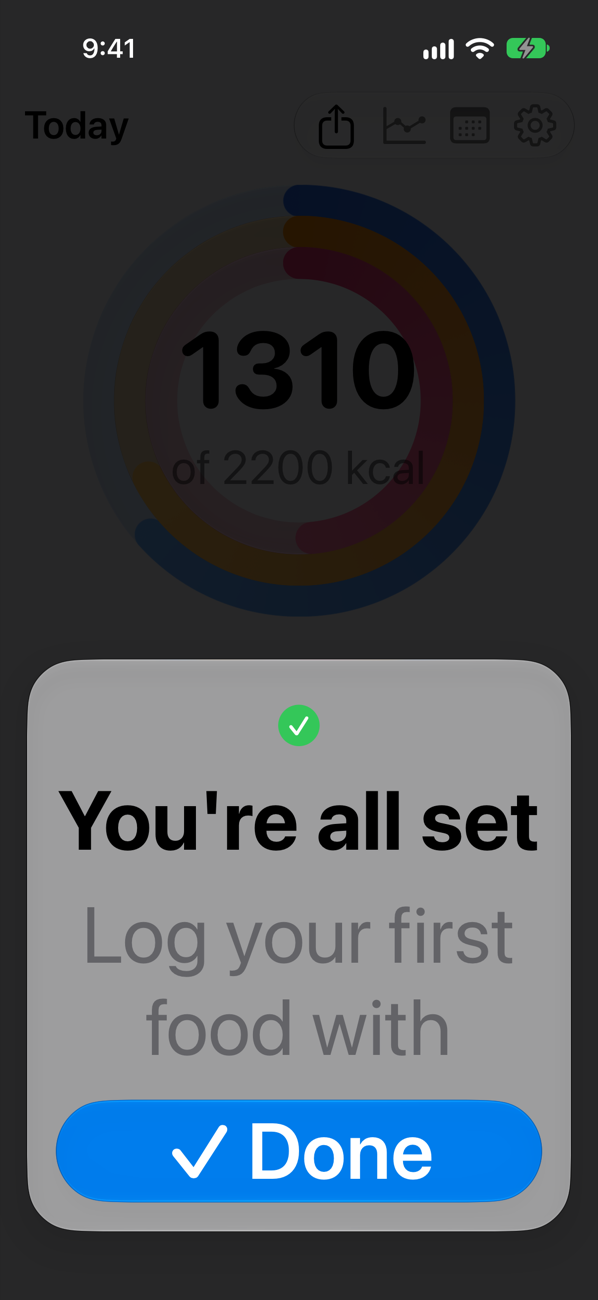
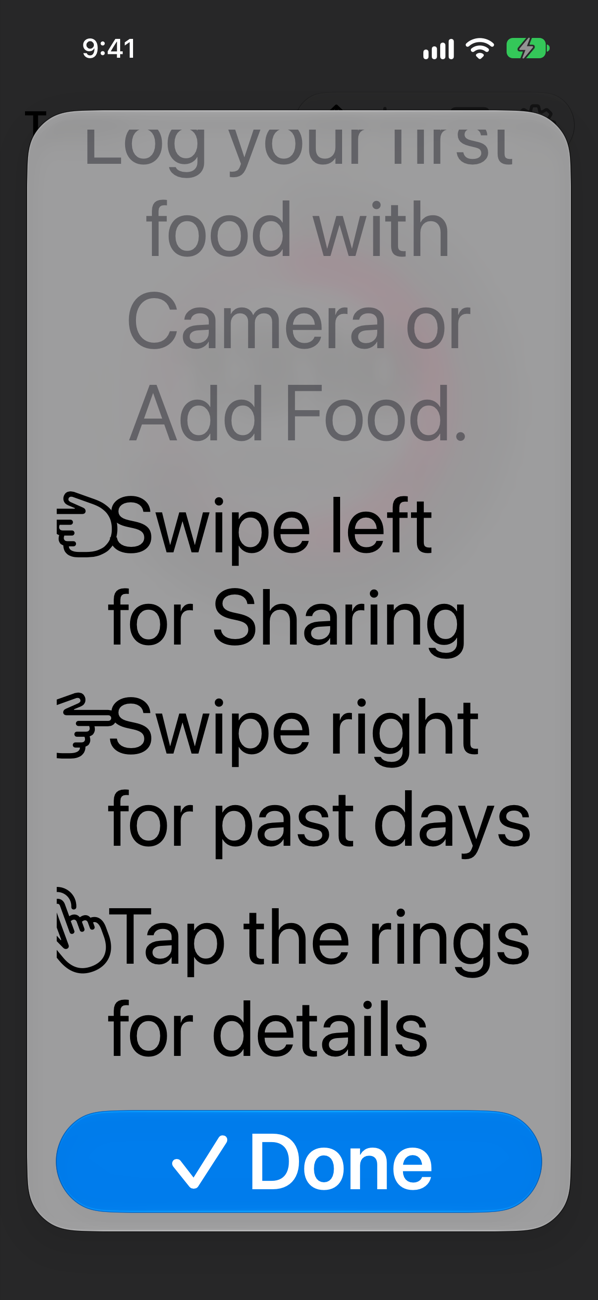
docs: refresh tutorial accessibility finish captures

diff --git a/tutorial-r7/README.md b/tutorial-r7/README.md
@@ -2,11 +2,12 @@
 
 This requested screenshot transfer set covers the complete light tutorial,
 dark-mode opening and finish, accessibility-size opening, Protein step and
-finish, plus a composite strip of the finish transition. It contains 15 PNGs
-totalling about 2.8 MB. This is an intentional exception to the repository's
-usual five-image / 2 MiB evidence limit: all requested states and the
-transition strip are included. The 101 MB simulator recording and raw XCTest
-result bundles remain in ignored local evidence and are not tracked here.
+finish at two accessibility sizes, plus a composite strip of the finish
+transition. It contains 16 PNGs totalling about 3.1 MB. This is an intentional
+exception to the repository's usual five-image / 2 MiB evidence limit: all
+requested states and the transition strip are included. The 101 MB simulator
+recording and raw XCTest result bundles remain in ignored local evidence and
+are not tracked here.
 
 ## Captures
 
@@ -25,18 +26,24 @@ result bundles remain in ignored local evidence and are not tracked here.
 | [11-finish-dark.png](11-finish-dark.png) | Dark: finish recap |
 | [12-sharing-accessibility.png](12-sharing-accessibility.png) | Accessibility text size: sharing |
 | [13-protein-accessibility.png](13-protein-accessibility.png) | Accessibility text size: Protein |
-| [14-finish-accessibility.png](14-finish-accessibility.png) | Accessibility text size: finish recap |
+| [14-finish-accessibility.png](14-finish-accessibility.png) | AX5 finish recap: scrolled to show all recap rows above pinned Done |
 | [15-finish-transition-strip.png](15-finish-transition-strip.png) | Ten sampled frames through the finish morph |
+| [16-finish-ax1.png](16-finish-ax1.png) | AX1 finish recap: all content fits above pinned Done |
 
 ## Provenance
 
 - Integration source: `e2f75742` (final Reduce Motion glass morph gating).
+- Accessibility fix: feature commit `8d27cc46`, merged as `001cc1de`.
 - Simulator: iPhone 17, iOS 27.0, UDID `918D29B9-97D3-42C0-9C47-00605E01E8DB`.
 - Toolchain: Xcode 27.0 (27A266a), selected with
   `/Applications/Xcode-26.4.1.app/Contents/Developer`.
 - UI test: `TutorialRound7CaptureTests.testCaptureTutorialStatesAndFinishTransition`,
   1 passed, 0 failed, 119.357 seconds.
-- App build and Swift formatting checks passed.
+- Follow-up UI captures used a temporary XCUITest on the same iPhone 17. The
+  standard-size finish, AX5 finish, AX1 finish, and AX5 Protein step each passed.
+  At AX5, scrolling reveals the remaining recap row while Done stays pinned.
+  The Protein step panel remains readable at AX5.
+- `make quality-build` and `make quality-format-check` passed for the fix.
 - Raw test logs, result bundles, exported attachments, and the 101 MB simulator
   recording are preserved under the ignored local
   `build/evidence/2026-11-25-tutorial-r7/` directory in the main checkout.
